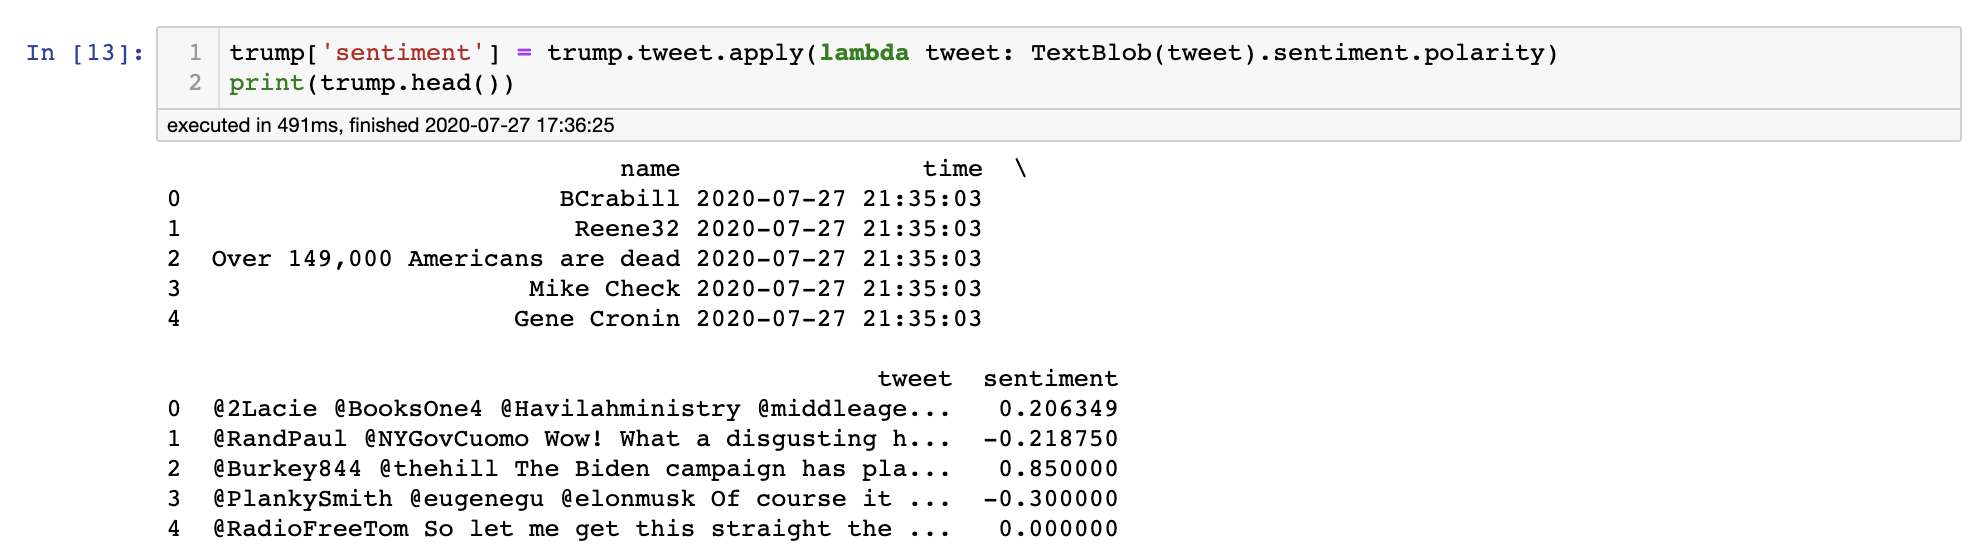
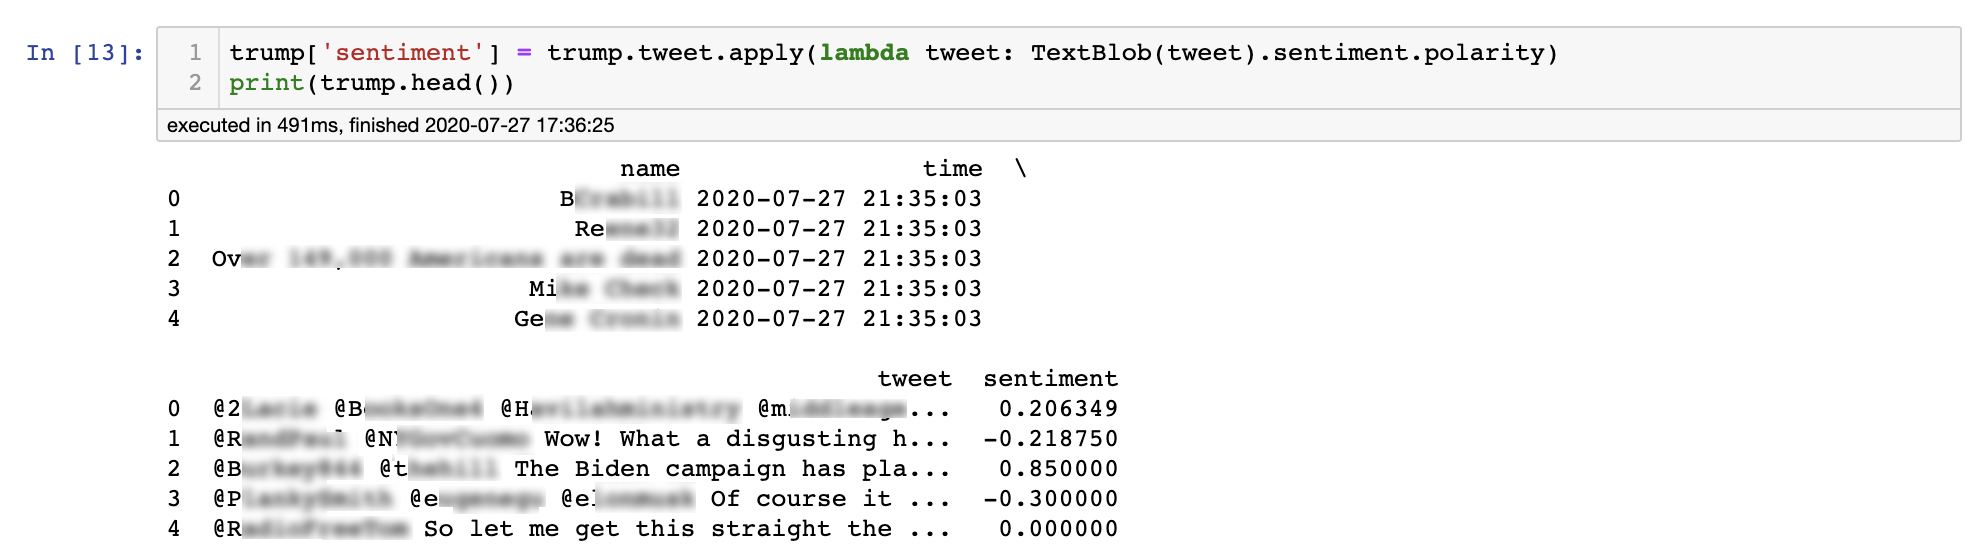
blurred user names from readme

Changed region(s): [[0.1234, 0.6982, 0.4626, 0.9714], [0.1234, 0.3339, 0.3701, 0.6071]]

diff --git a/README.md b/README.md
@@ -1,7 +1,8 @@
 # Twitter Sentiment Analysis & Botometer Bot likelihood
+July 2020
 
 ![](images/python_twitter_sentiment-cover.png)
-July 2020
+
 
 For this time around I chose to do a project that focus on my brand spanking new Twitter Api. After thought I wanted do a sentiment analysis on the tweets and to classify if a tweet is either positive or negative. I also had another project in mind and decided to combine them and added Botometer. Botometer is a package that can rate the likelihood the Twitter user is a bot or human at a threshold.
 
@@ -24,24 +25,24 @@ For this time around I chose to do a project that focus on my brand spanking new
 * Sentiment Analysis on tweets:
 
   - I used a python package (TextBlob) that will provide me with a nice and easy sentiment polarity score. The polarity score is a float with values ranging from -1 to +1 (100% negative sentiment to 100% positive sentiment, respectably).
-  ![](images/polarity_examaple.png)
+![](images/polarity_examaple.png)
 
   - I wrapped sentiment polarity up in a function for easier calling.
 
   - Next a preformed the sentiment polarity function on the entire dataframe of using a simply lambda function.
-  ![](images/sentiment_head.png)
+![](images/sentiment_head.png)
 
   - Lastly I classified the sentiment polarity score by positive/negative and displayed a count of each.
-  ![](images/sentiment_class.png)
+![](images/sentiment_class.png)
 
 * Botometer
 
   - Lastly I ran Botometer, using Twitter's Api, on a few users. Botometer runs analysis on whether the user is likely a bot or a human.
-
+![](images/botometer_example.png)
 
 Hope You enjoyed my A Twitter Sentiment Analysis & Botometer Project
 
-Add me on LinkedIn
+Add me on LinkedIn if you liked.
 
 ## Built With
 
